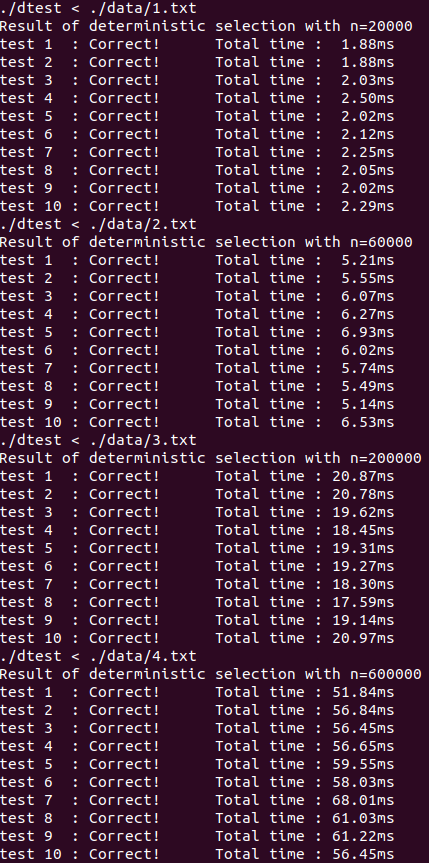
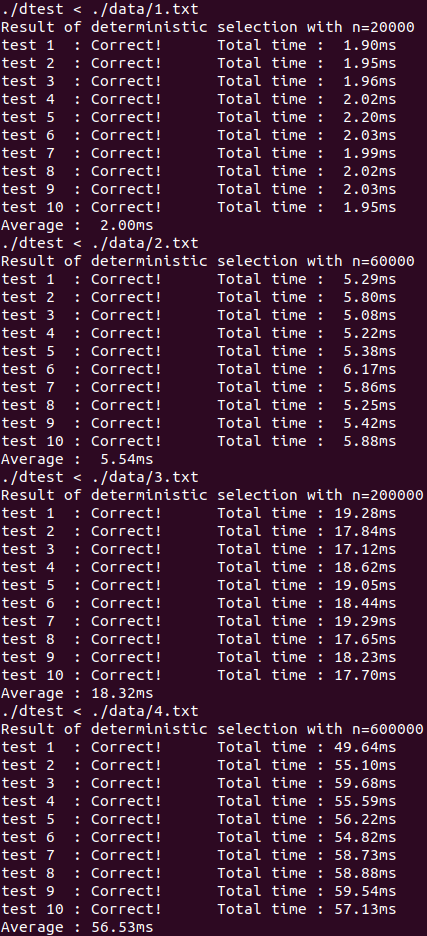
updated test, test results

diff --git a/dtest.c b/dtest.c
@@ -7,6 +7,7 @@
 int main(){
 	clock_t before;
 	double time;
+	double avg = 0;
 	int* arr;
 	int* tmp;
 	int n, k;
@@ -16,31 +17,24 @@ int main(){
 	arr = calloc(n, sizeof(int));
 	tmp = calloc(n, sizeof(int));
 
-	for(int i = 0; i < n; i++){
+	for(int i = 0; i < n; i++)
 		scanf("%d", &arr[i]);
-	}
 
 	printf("Result of deterministic selection with n=%d\n", n);
-
 	for(int i = 0; i < 15; i++){
 		memcpy(tmp, arr, n * sizeof(int));
-		
 		before = clock();
 		ans = deterministic_select(tmp, n, k);
 		time = (double)(clock() - before) / (CLOCKS_PER_SEC/1000);
 		if(i >= 5){
 			printf("test %d\t: ", i - 4);
-			if(checker(arr, n, k, ans)){
-				printf("Correct!\t");
-			}
-		
-			else {
-				printf("Wrong!\t");
-			}
+			if(checker(arr, n, k, ans)) printf("Correct!\t");
+			else printf("Wrong!\t");
 			printf("Total time : %5.2fms\n", time);
+			avg += time;
 		}
 	}
-
+	printf("Average : %5.2fms\n", avg / 10);
 	
 	return 0;
 }

diff --git a/rtest.c b/rtest.c
@@ -7,6 +7,7 @@
 int main(){
 	clock_t before;
 	double time;
+	double avg = 0;
 	int* arr;
 	int* tmp;
 	int n, k;
@@ -16,31 +17,24 @@ int main(){
 	arr = calloc(n, sizeof(int));
 	tmp = calloc(n, sizeof(int));
 
-	for(int i = 0; i < n; i++){
+	for(int i = 0; i < n; i++)
 		scanf("%d", &arr[i]);
-	}
 
 	printf("Result of randomized selection with n=%d\n", n);
-
 	for(int i = 0; i < 15; i++){
 		memcpy(tmp, arr, n * sizeof(int));
-		
 		before = clock();
 		ans = randomized_select(tmp, n, k);
 		time = (double)(clock() - before) / (CLOCKS_PER_SEC/1000);
 		if(i >= 5){
 			printf("test %d\t: ", i - 4);
-			if(checker(arr, n, k, ans)){
-				printf("Correct!\t");
-			}
-		
-			else {
-				printf("Wrong!\t");
-			}
+			if(checker(arr, n, k, ans)) printf("Correct!\t");
+			else printf("Wrong!\t");
 			printf("Total time : %5.2fms\n", time);
+			avg += time;
 		}
 	}
-
+	printf("Average : %5.2fms\n", avg / 10);
 	
 	return 0;
 }
